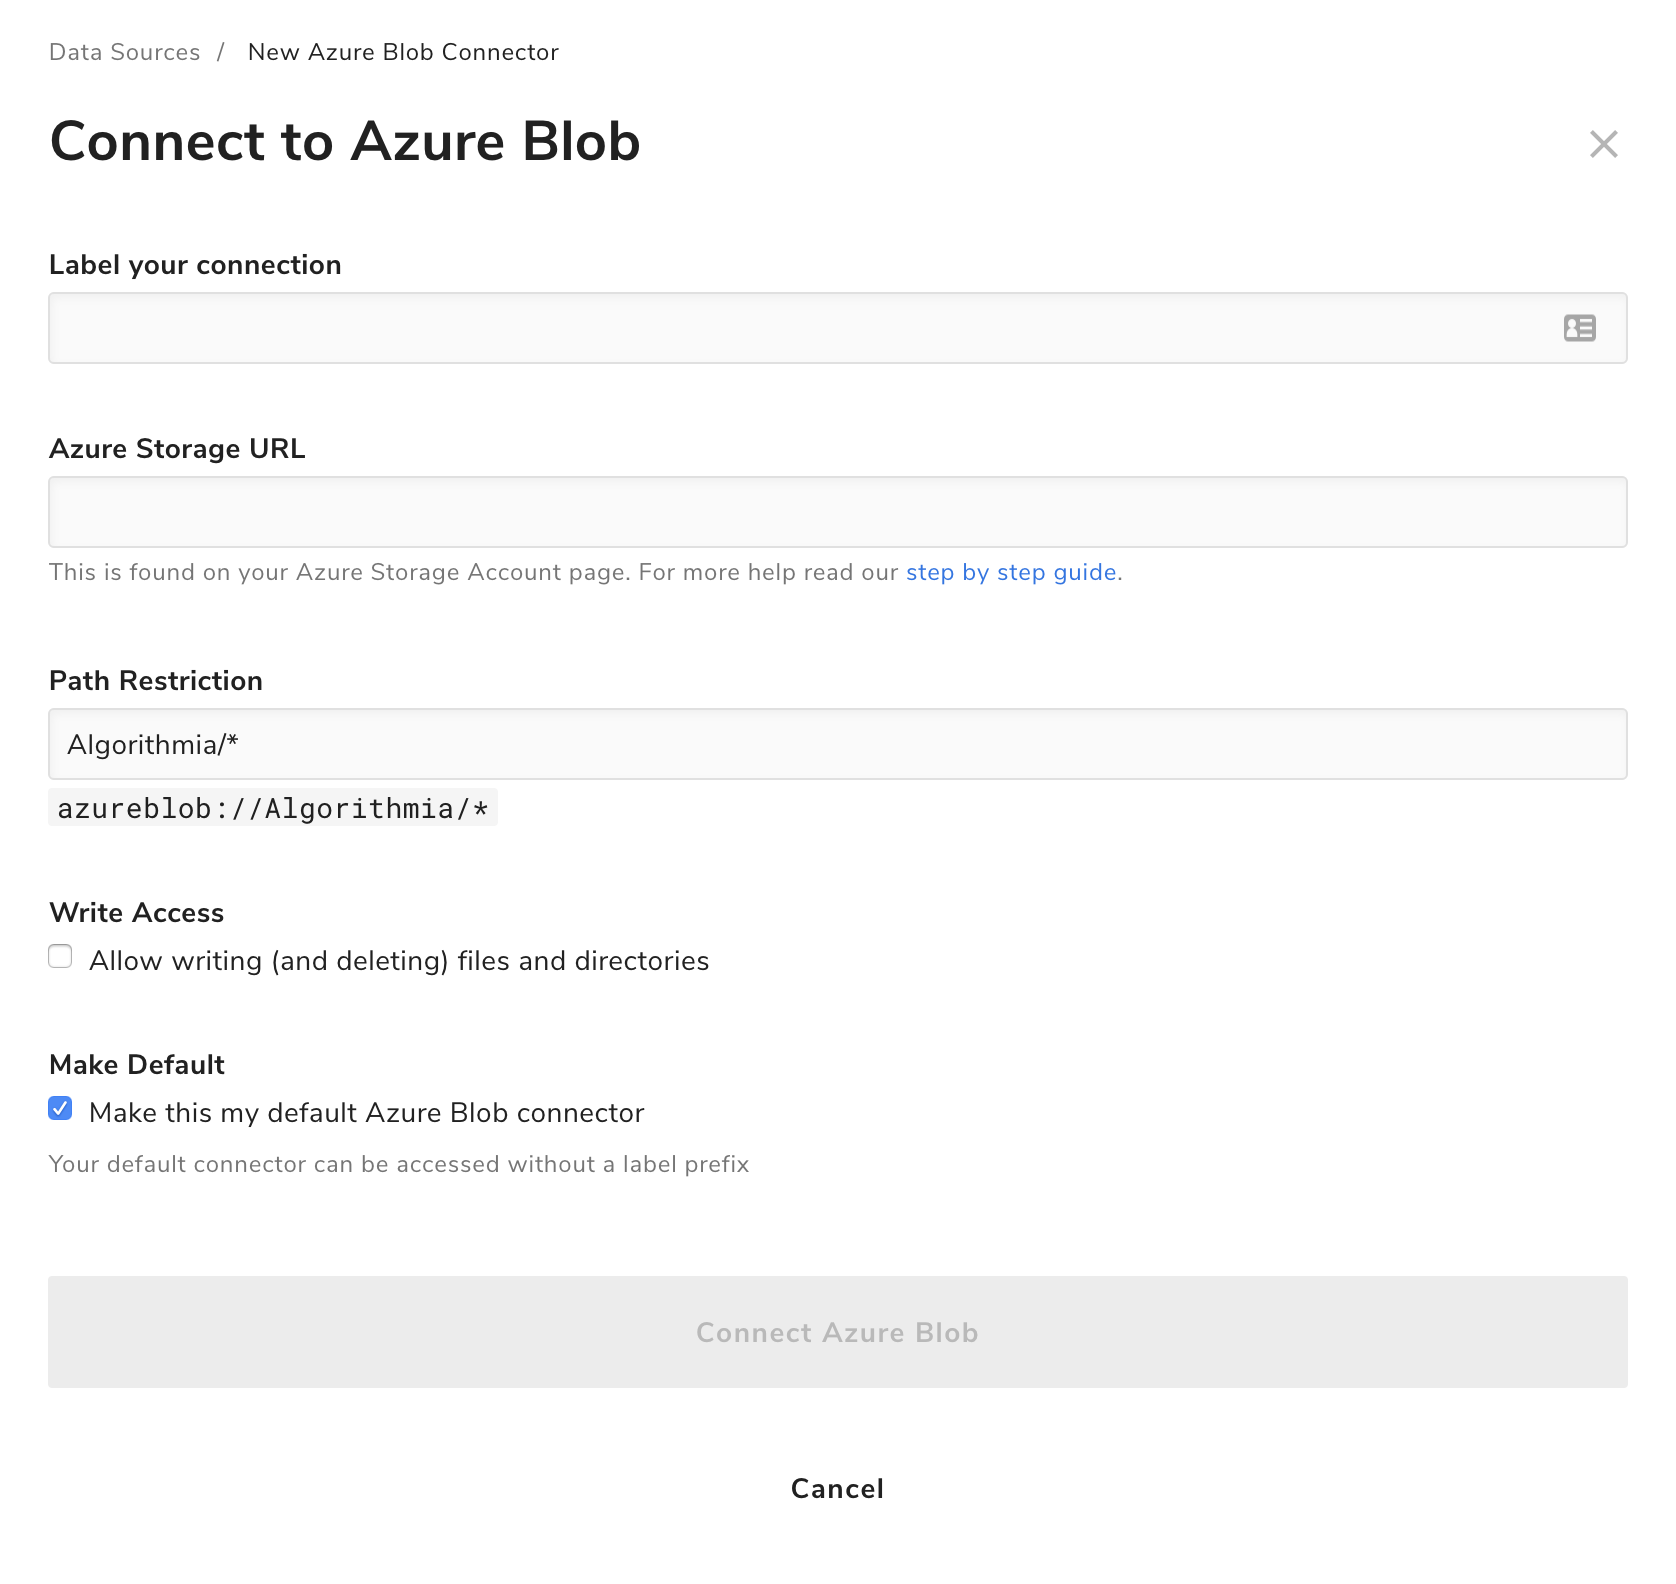
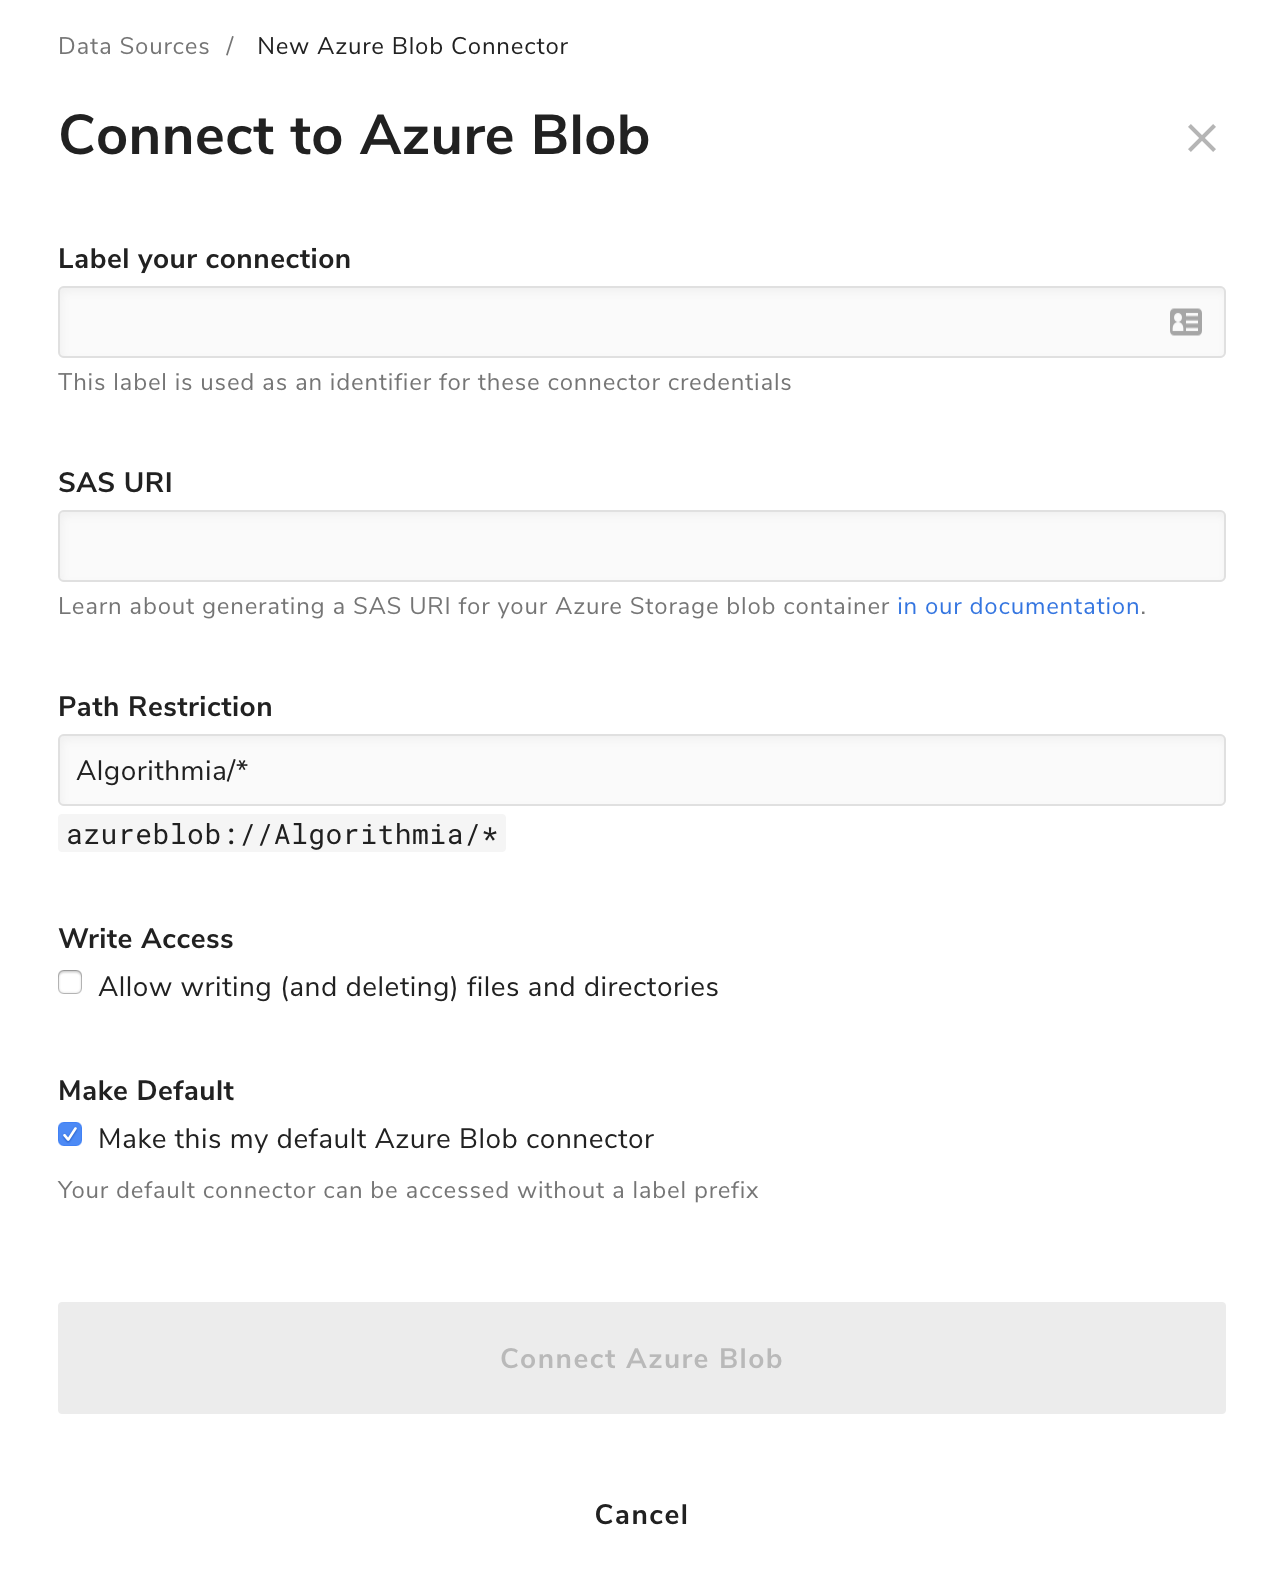
UXENG-682 Update Azure docs after UI update

diff --git a/_pages/data/azureblob.md b/_pages/data/azureblob.md
@@ -25,7 +25,7 @@ Select **'Azure Blob'** and a form will open to configure a connection. Here you
 
 1. Go to [https://portal.azure.com](https://portal.azure.com) and navigate to Storage Accounts.  Click on the Storage account you want to manage, then "Storage Explorer".
 2. Under "Blob Containers", __right-click__ the container you want and pick "Get Shared Access Signature"; make sure "Read" permission is checked and hit the "Create" button.
-3. Copy the URL value from the resulting pane into the Azure Storage URL input.
+3. Copy the URL value from the resulting pane into the SAS URI input.
 
 
 <img src="{{site.cdnurl}}{{site.baseurl}}/images/post_images/data_connectors/azure_portal_storage_explorer.png" alt="Azure Portal storage explorer" class="screenshot img-sm">
